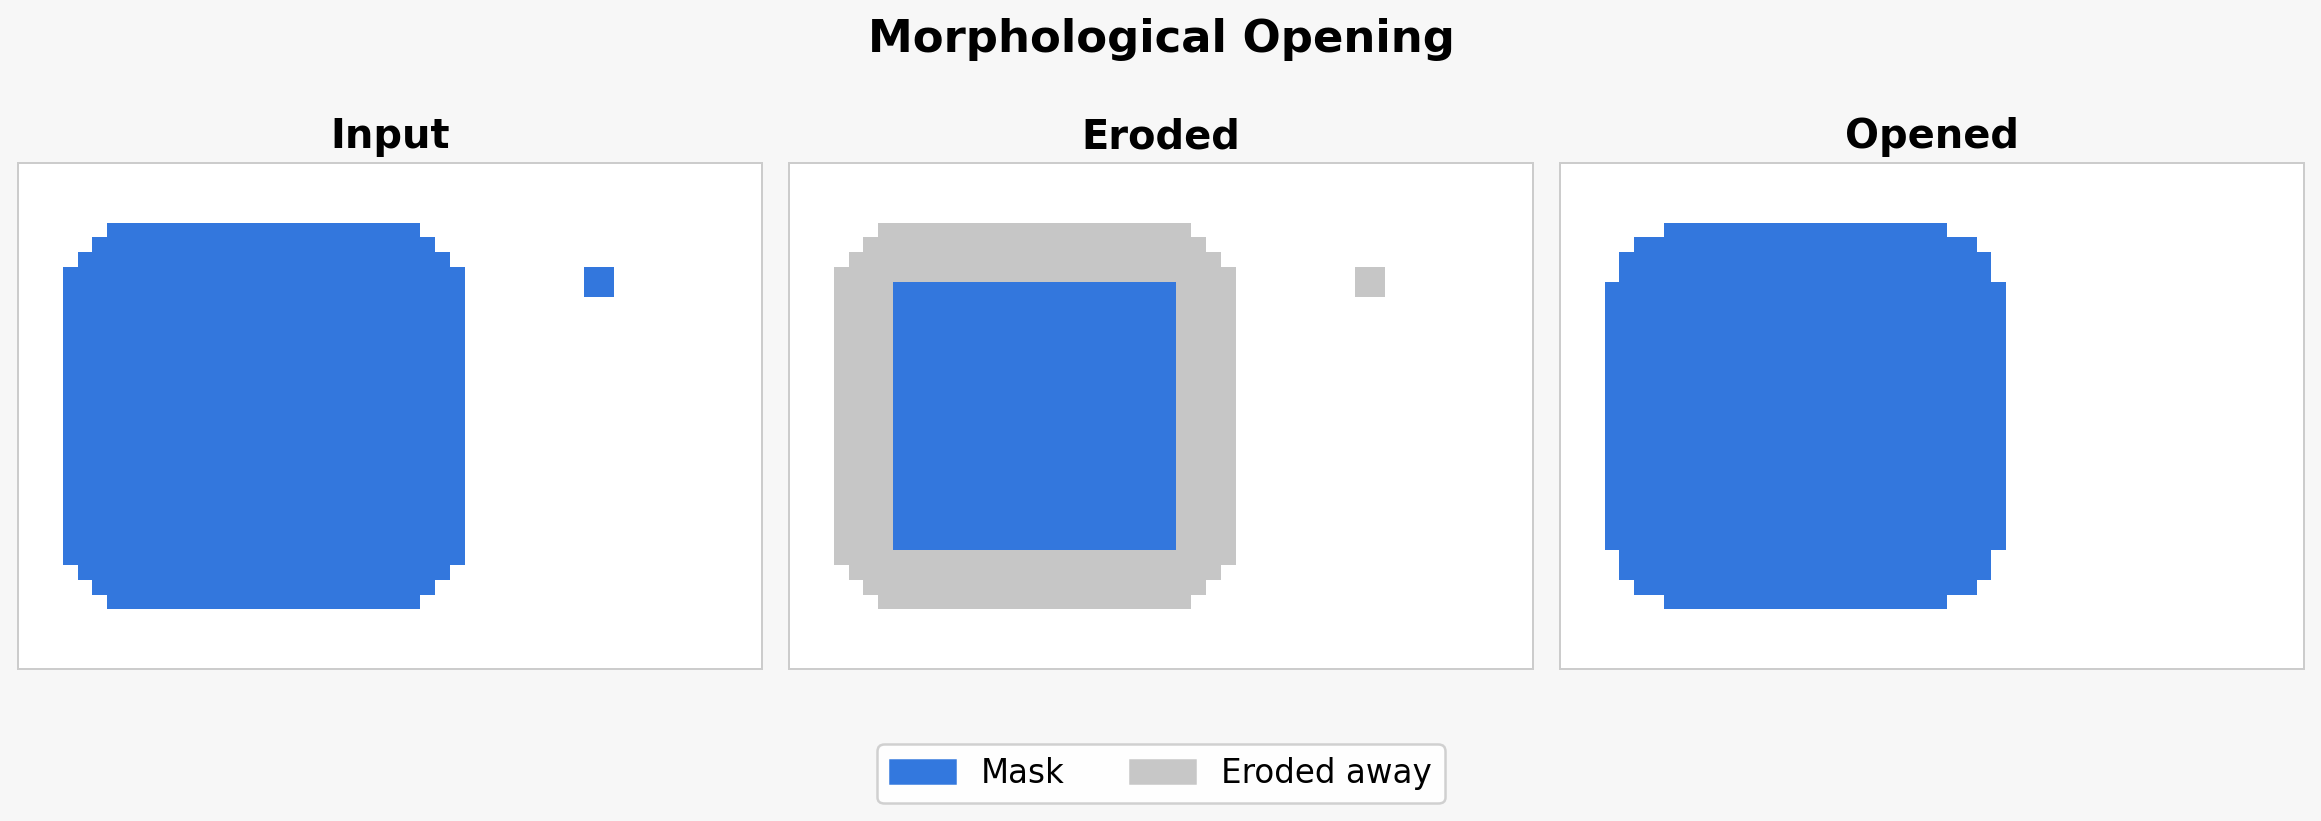
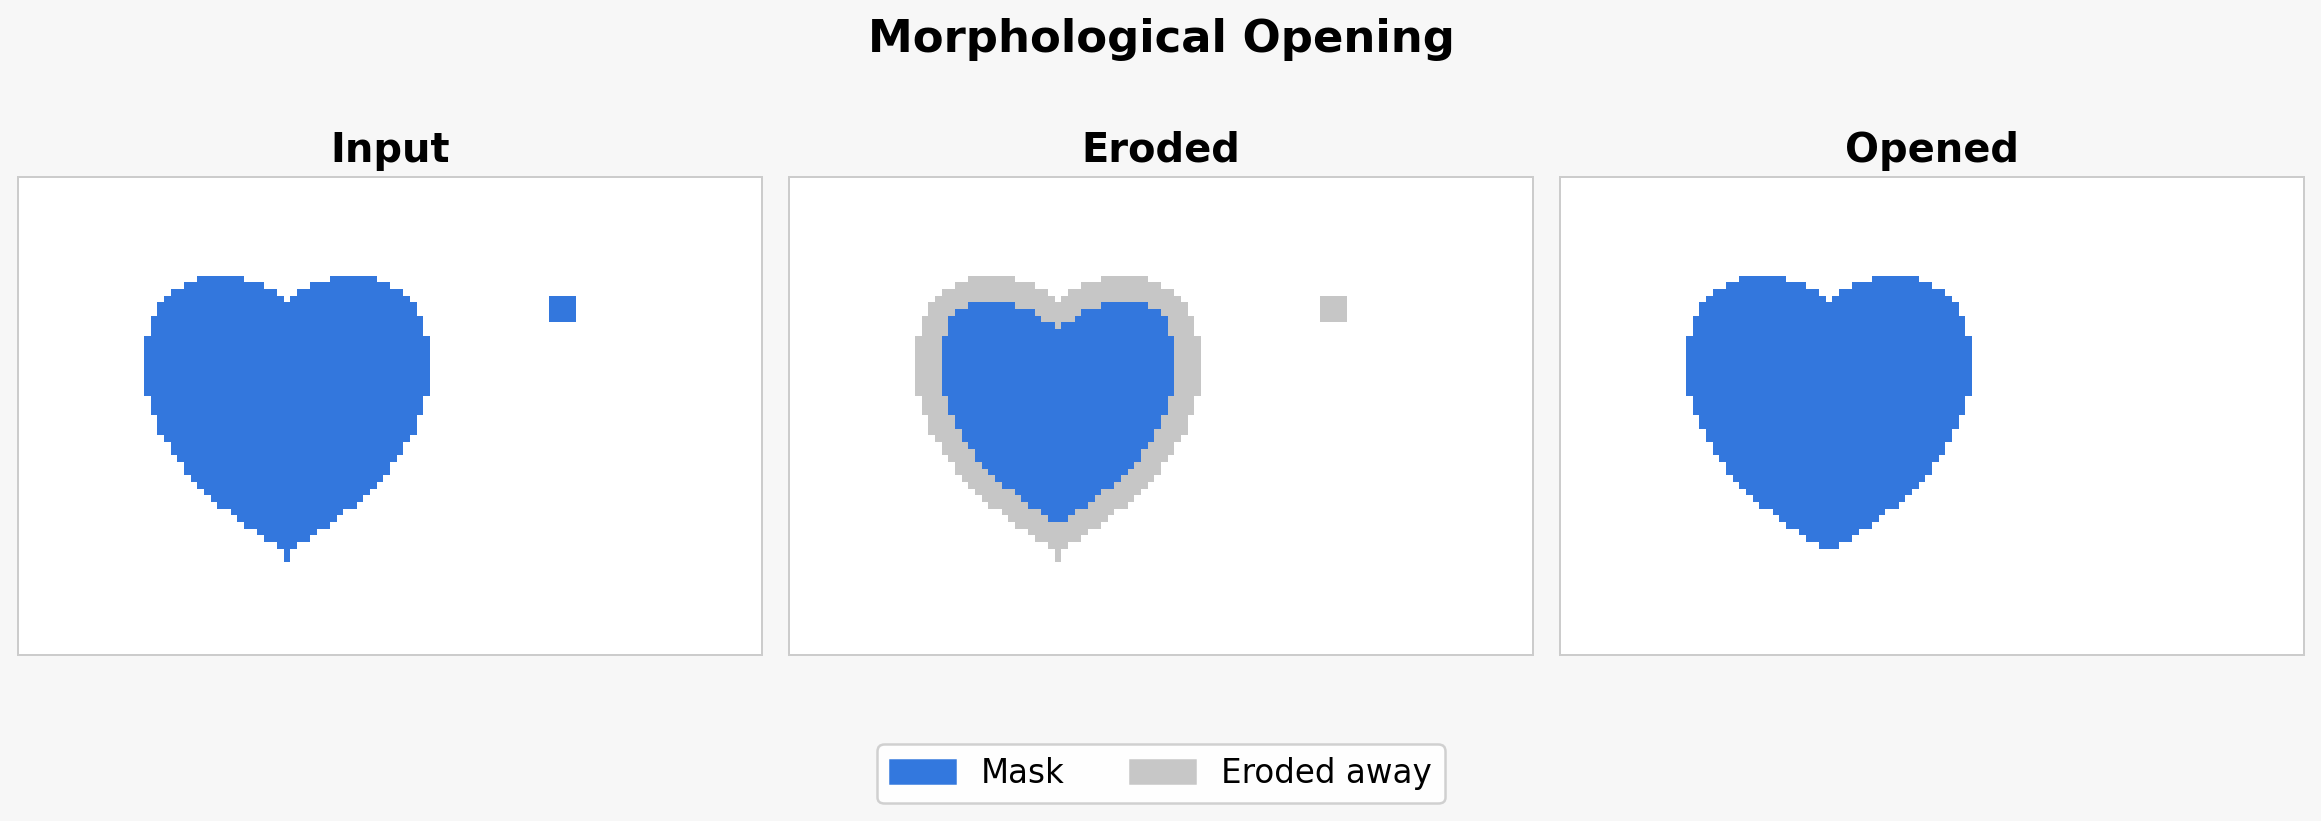
auto: update visualize_morphological_opening_toy.py

diff --git a/scripts/cleaning/visualize_morphological_opening_toy.py b/scripts/cleaning/visualize_morphological_opening_toy.py
@@ -38,7 +38,7 @@ OUT_PATH.parent.mkdir(parents=True, exist_ok=True)
 # ---------------------------------------------------------------------------
 # Structuring element — disk, radius 4
 # ---------------------------------------------------------------------------
-RADIUS = 4
+RADIUS = 2
 se = np.zeros((2 * RADIUS + 1, 2 * RADIUS + 1), dtype=bool)
 for dr in range(-RADIUS, RADIUS + 1):
     for dc in range(-RADIUS, RADIUS + 1):